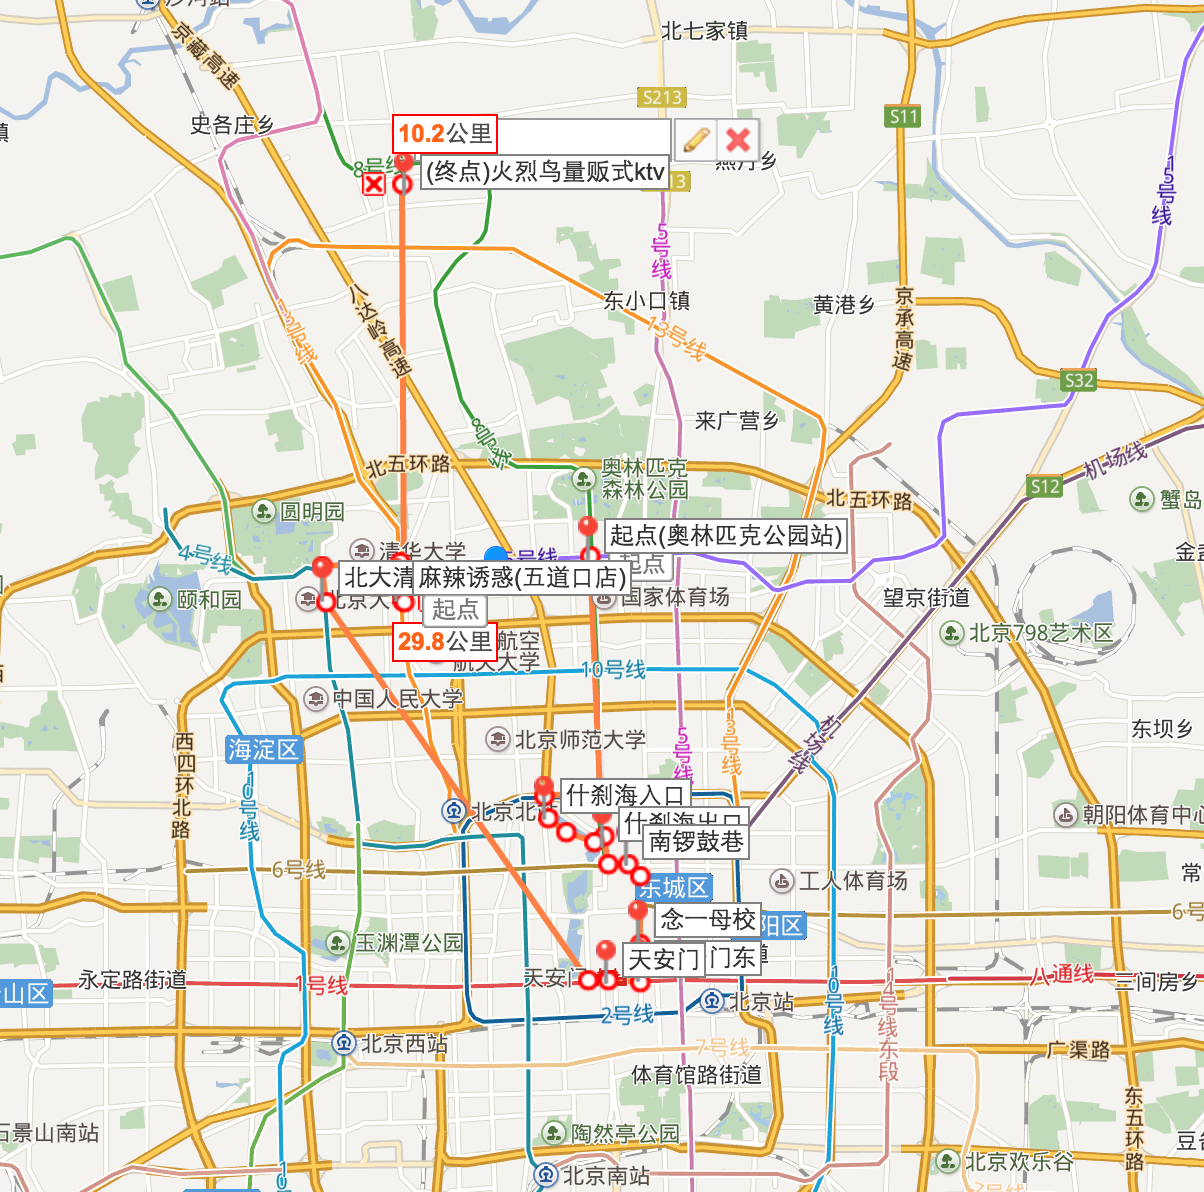
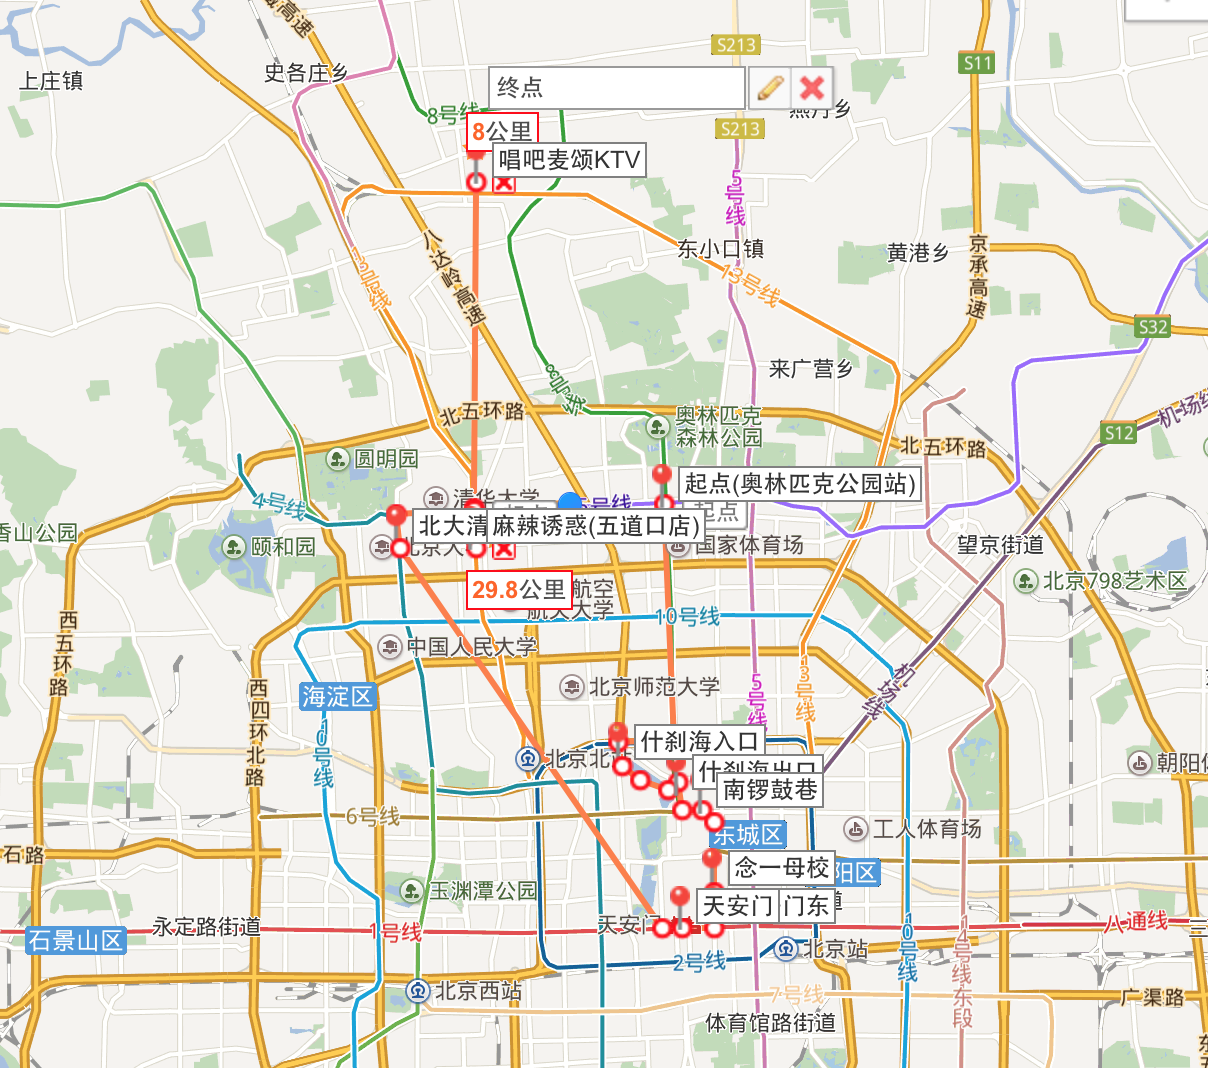
change KTV site

diff --git a/docs/detail.md b/docs/detail.md
@@ -21,7 +21,7 @@
 
 - 第六站: 五道口麻辣诱惑/回龙观盛百味（13号地铁）
 
-终点站: 火烈鸟KTV
+终点站: 唱吧麦颂KTV
 
 
 <br/>
@@ -76,7 +76,15 @@
 
 ---
 
-[火烈鸟量贩式KTV(回龙观店)](http://j.map.baidu.com/pSOkB) 
+- [唱吧麦颂(回龙观店)](http://j.map.baidu.com/jBXMF) 
+
+商户电话: **(010)51077383**
+
+商户地址: **北京市昌平区回龙观镇育知东路30号院5号楼华联商厦F2**
+
+---
+
+- [火烈鸟量贩式KTV(回龙观店)](http://j.map.baidu.com/pSOkB)
 
 商户电话: **(010)60706988**
 
